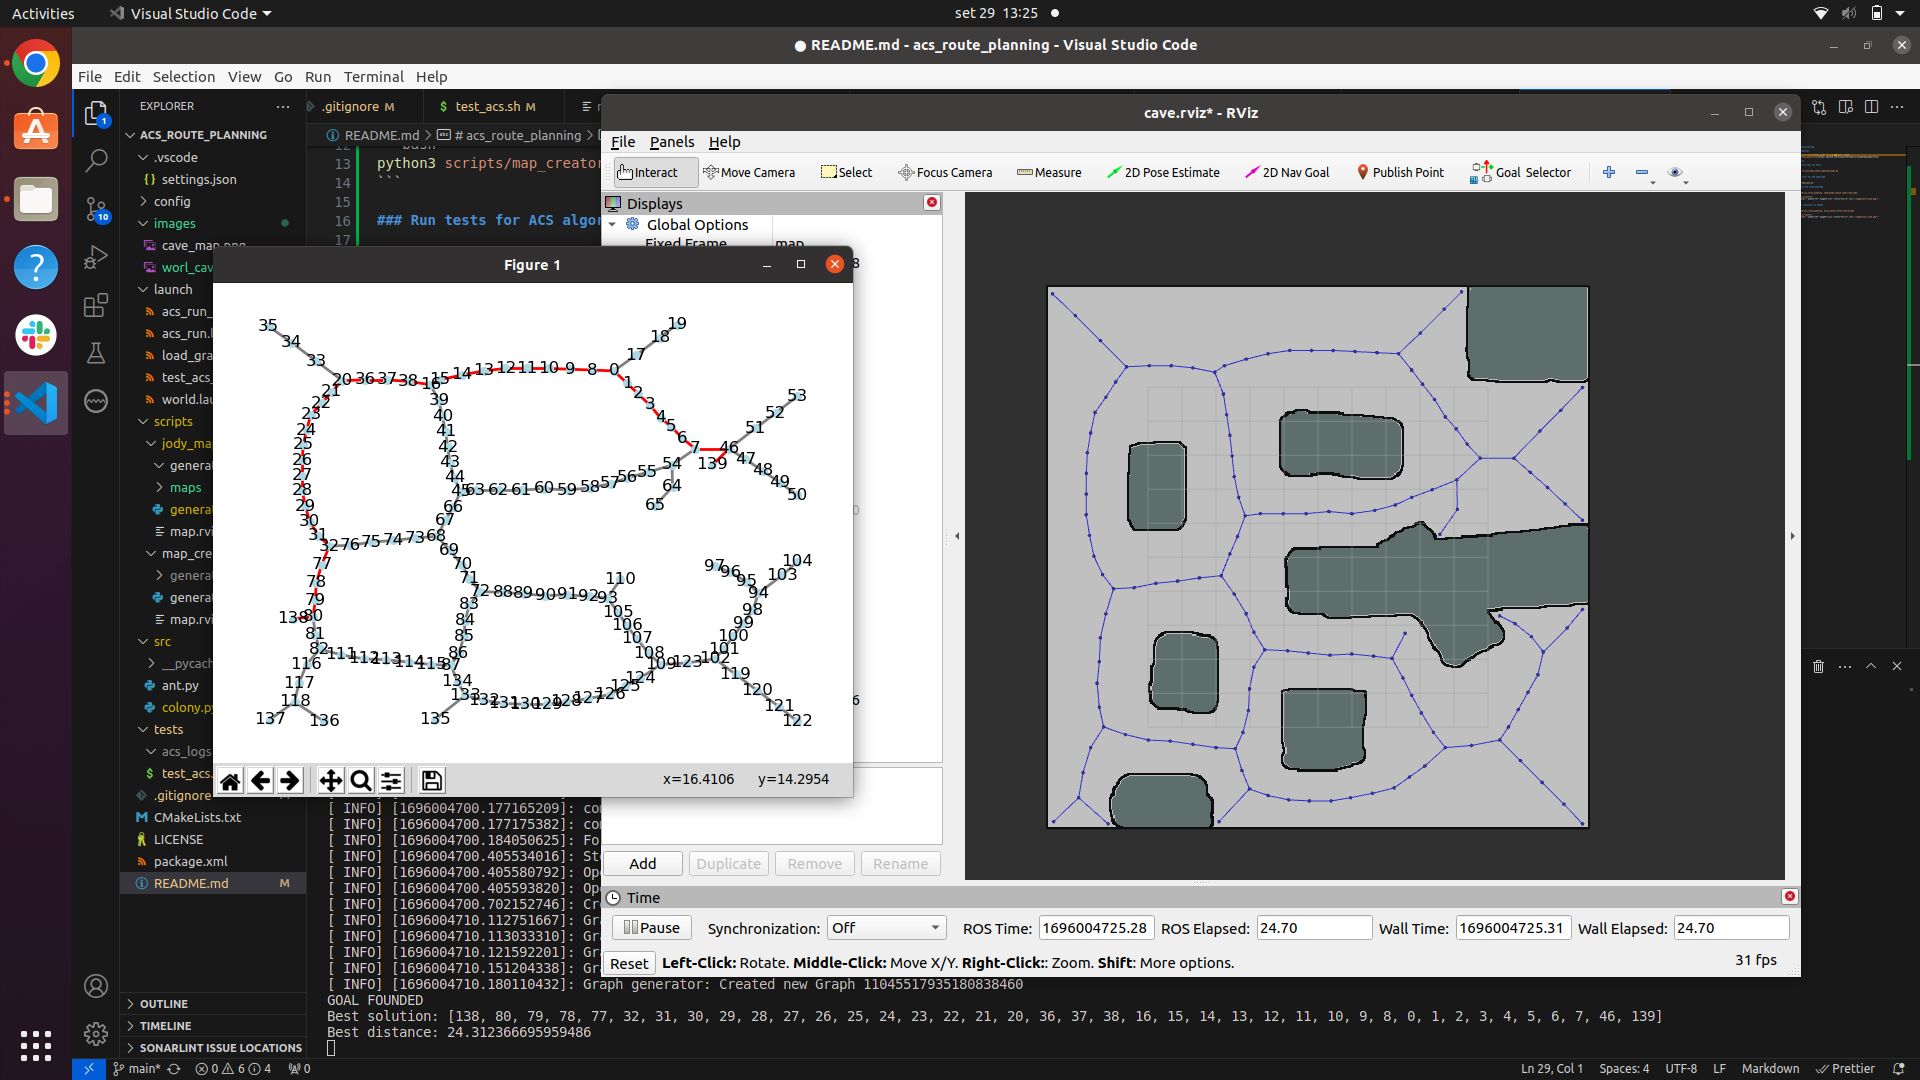
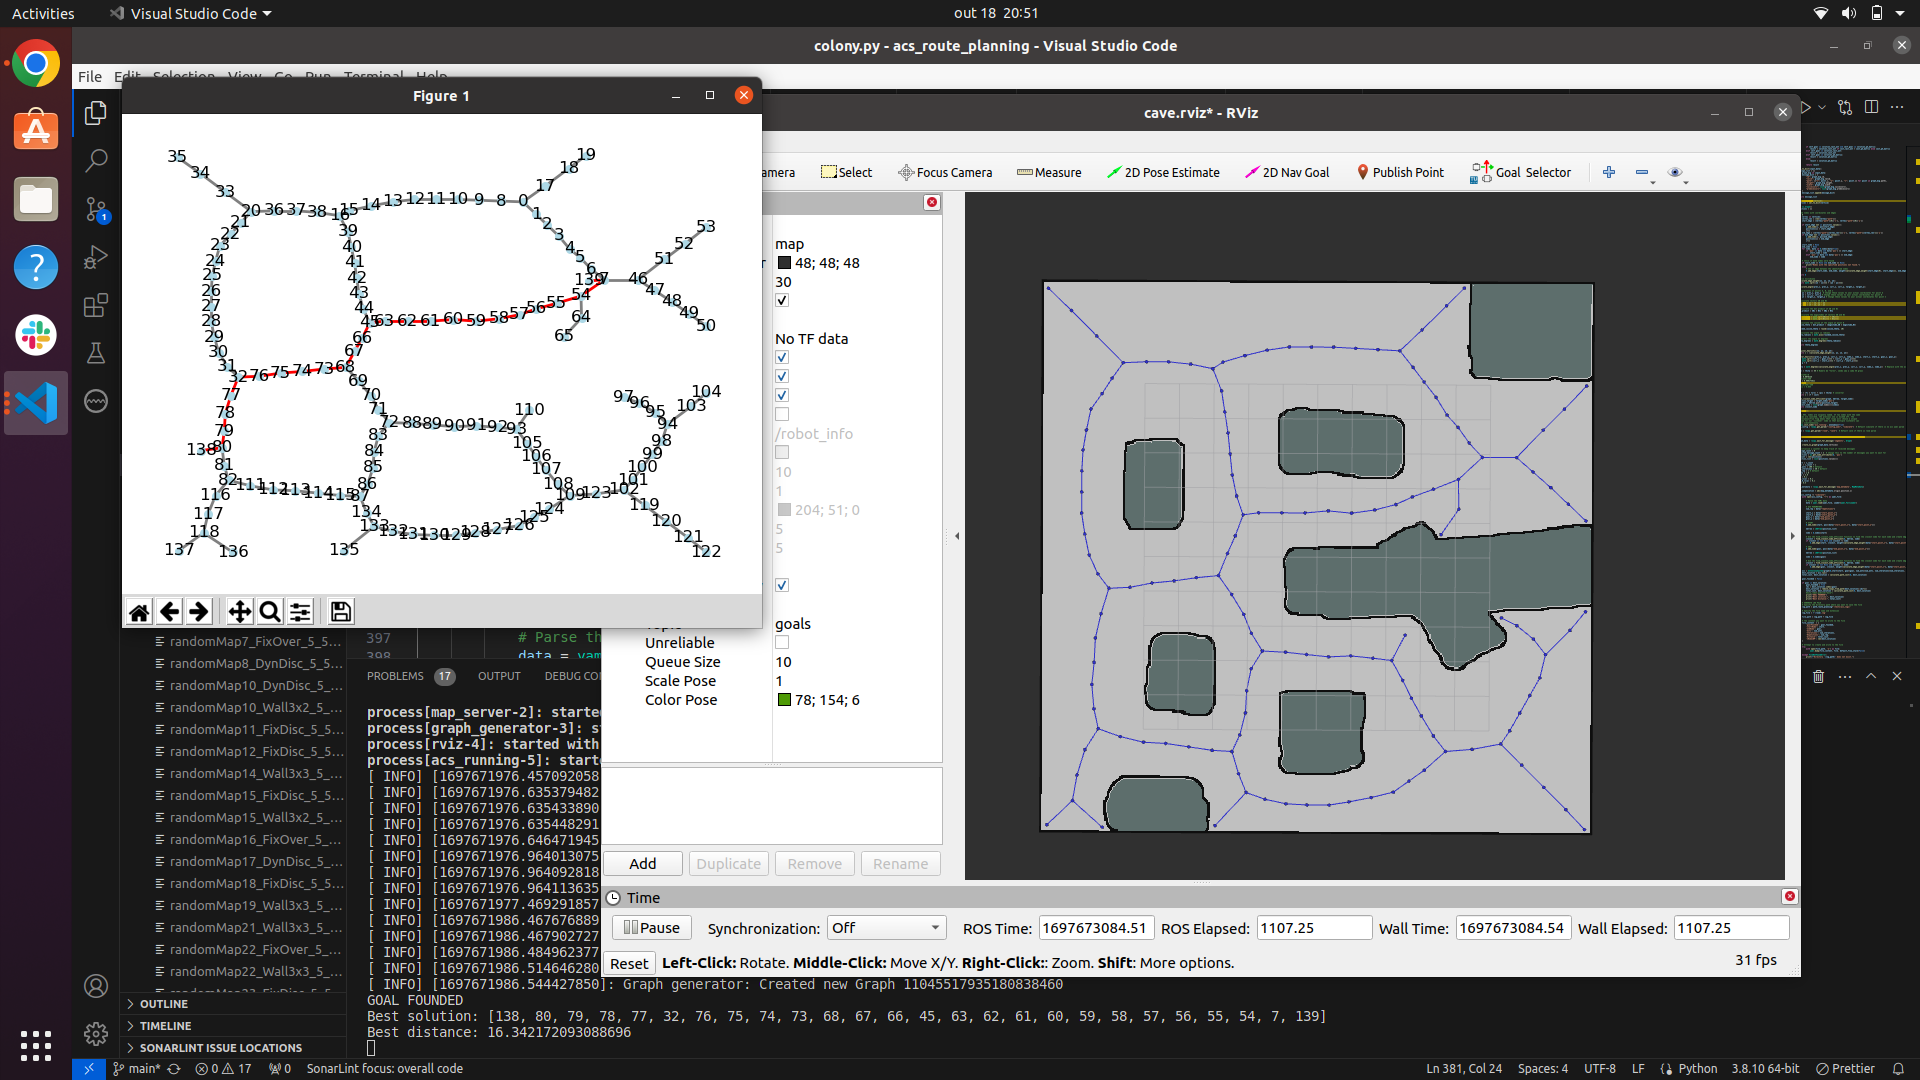
update readme

diff --git a/src/colony.py b/src/colony.py
@@ -80,8 +80,11 @@ class AntColonySystem:
             pheromone_value = self.pheromone[current_node][node]
             curr_x, curr_y = self.graph.nodes[current_node]['pos']
             node_x, node_y = self.graph.nodes[node]['pos']
-            #prev_x, prev_y = self.graph.nodes[previous_node]['pos']
-            heuristic_value = 1.0 / calculate_edge_weight(curr_x, curr_y, node_x, node_y)
+            prev_x, prev_y = self.graph.nodes[previous_node]['pos']
+            if curr_x == prev_x and curr_y == prev_y:
+                heuristic_value = 1.0 / calculate_edge_weight(curr_x, curr_y, node_x, node_y)
+            else:
+                heuristic_value = a_star_heuristic(prev_x, prev_y, curr_x, curr_y, node_x, node_y, self.start_x, self.start_y, self.goal_x, self.goal_y)
 
             probability = (pheromone_value ** self.alpha) * (heuristic_value ** self.beta)
             probabilities.append(probability)
@@ -328,8 +331,13 @@ def a_star_heuristic(prev_x, prev_y, curr_x, curr_y, node_x, node_y, start_x, st
 
     turn = thita // 45 # Numero de "turns", sendo uma a cada 45 graus
     
-    fi = 0.45
-    psi = 0.2
+    #(16/256)/8
+    fi = 0.0078125
+    #(16/256)/360
+    psi = 0.000173611
+    # fi = 2
+    # #(16/256)/360
+    # psi = 0.044
     
     
     cost = (fi * turn) + (psi * thita) # consertar
@@ -370,7 +378,7 @@ def listener():
     start = v_count
     goal = v_count + 1
     num_ants = 100 # default
-    num_iterations = 10 # default
+    num_iterations = 30 # default
     num_rep = 1 # default
     alpha = 1.0
     beta = 2.0

diff --git a/README.md b/README.md
@@ -12,7 +12,7 @@ This package contains an implementation of Ant Colony System for Path Planning
 ### Generate maps for tests
 
 ```bash
-python3 scripts/map_creator/generate_maps.py 
+python3 scripts/jody_map_creator/generate_maps.py 
 ```
 
 ### Run tests for ACS algorithm
@@ -20,6 +20,7 @@ python3 scripts/map_creator/generate_maps.py
 ```bash
 ./tests/test_acs.sh
 ```
+This will run the test enviroment, using the generated maps (in scripts/jody_map_creator/generated_maps), and the tuw_voronoi_graph package
 
 ### Launch ACS route planning
 
